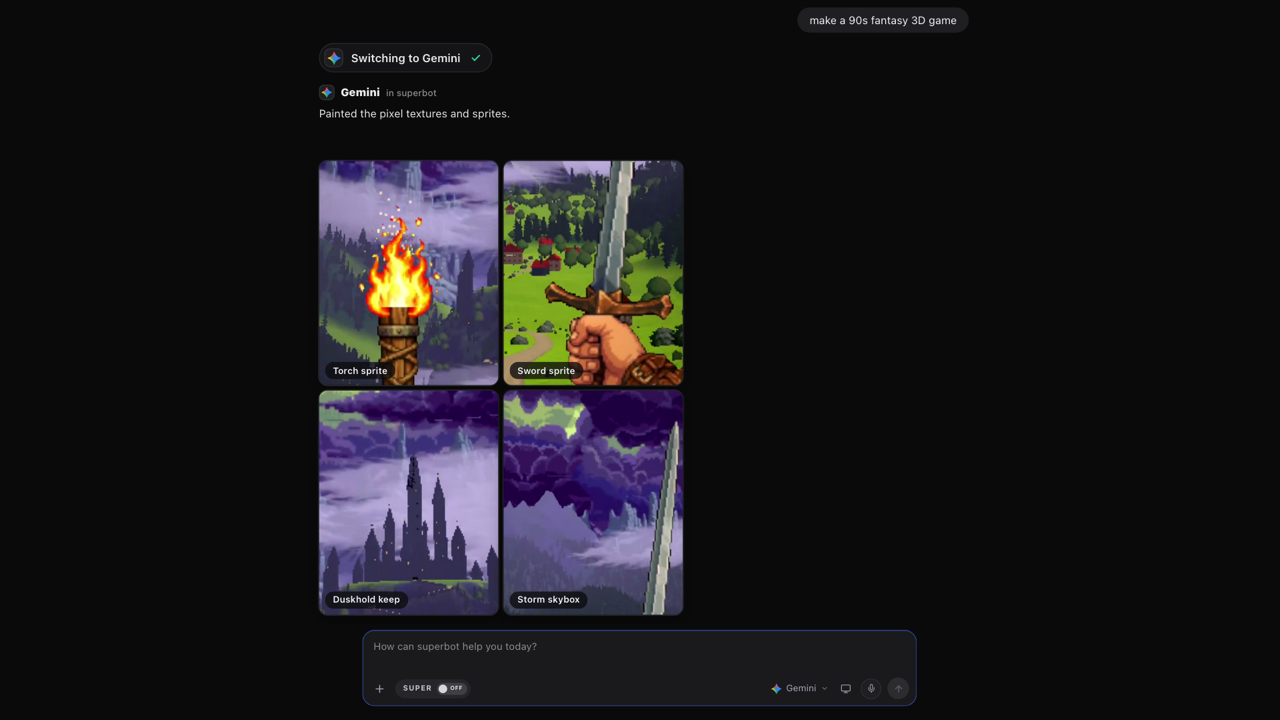
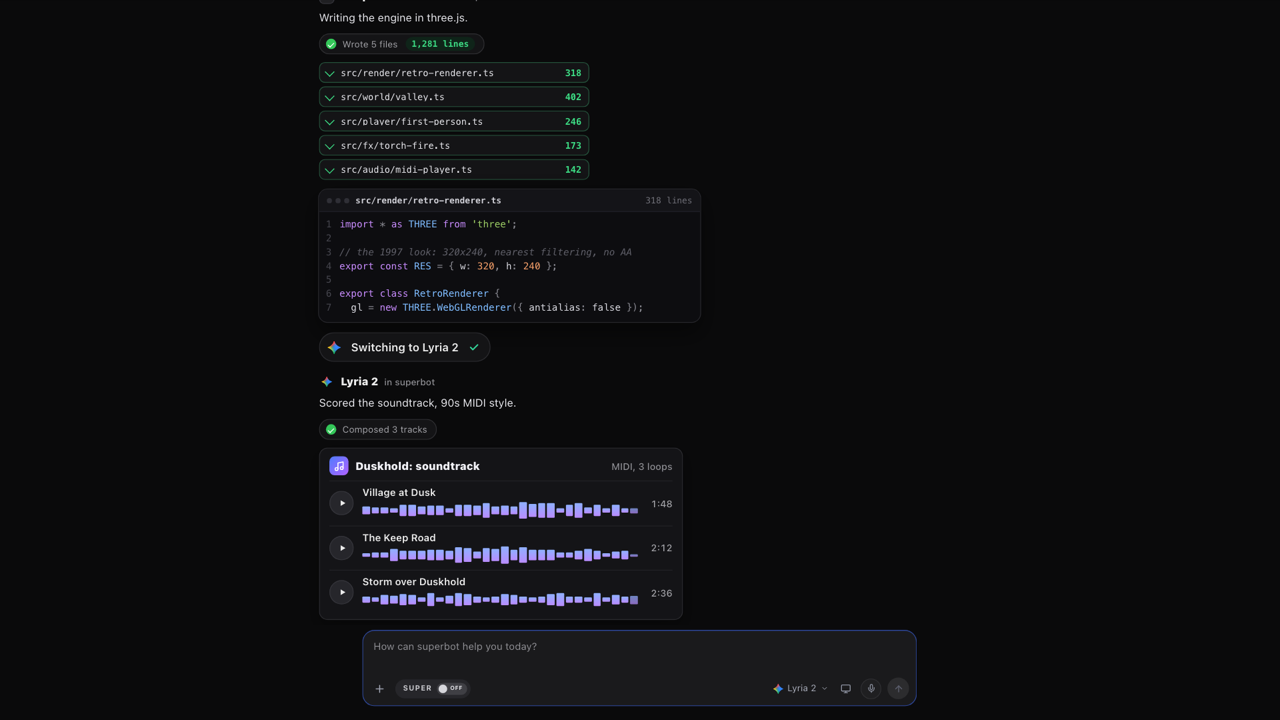
90s fantasy 3D game ad: distinct routing per variant (models, order, switch count, pacing)

Changed region(s): [[0.25, 0.0, 0.5312, 0.8556], [0.625, 0.0, 0.75, 0.0611], [0.5938, 0.9472, 0.625, 0.9778]]

diff --git a/animations/fantasy90s-every-model-superbot-042670d1/scenes/tabs-assets/chat.js b/animations/fantasy90s-every-model-superbot-042670d1/scenes/tabs-assets/chat.js
@@ -45,37 +45,43 @@ const CHIP = {
 
 // one request: the app that answers, its beat module, the chip that routes to it, and the beat's own options
 const step = (app, mod, opts = {}) => ({ app, mod, opts, chips: [[app, CHIP[app]]] });
-// only the first request is asked; the rest are superbot carrying the build forward on its own
-const variant = (steps) => steps.map((s, i) => (i === 0 ? { ...s, ask: ASK } : s));
+// only the first request is asked; the rest are superbot carrying the build forward on its own. pace sets where the
+// cuts land: hold is the pause after a beat before the next switch (one number, or one per step), chip is how long a
+// routing chip spins before it resolves
+const variant = (steps, pace = {}) => steps.map((s, i) => ({
+  ...s,
+  ...(i === 0 ? { ask: ASK } : {}),
+  hold: Array.isArray(pace.hold) ? pace.hold[i] || 0 : pace.hold || 0,
+  chipDur: pace.chip || 0.65,
+}));
 
-// the three published routings, one ad each (?v=1..3); every one builds the same 90s fantasy game, Duskhold, with
-// each part of the job sent to the model suited to it: design doc or lore, three.js engine and retro shaders,
-// pixel textures and sprites, the MIDI-style soundtrack, the repo, and the playable build
+// the three published routings, one ad each (?v=1..3). Every one builds the same 90s fantasy game, Duskhold, but
+// each routes differently: a different cast of models, a different order, a different number of switches and a
+// different rhythm (v1 four slow switches, v2 seven rapid ones, v3 six with uneven pauses)
 export const VARIANTS = {
   '1': variant([
-    step('deepseek', plan, { kind: 'gdd' }),
+    step('gemini', art),
     step('opus', code, { set: 'engine' }),
-    step('gemini', art),
     step('lyria', music),
-    step('github', git),
     step('superbot', play),
-  ]),
+  ], { hold: 0.7, chip: 0.8 }),
   '2': variant([
-    step('opus', plan, { kind: 'gdd' }),
-    step('gemini', art),
+    step('deepseek', plan, { kind: 'lore' }),
     step('codex', code, { set: 'retro' }),
     step('opus', code, { set: 'world' }),
-    step('lyria', music),
-    step('opus', play),
-  ]),
-  '3': variant([
     step('gemini', art),
-    step('deepseek', plan, { kind: 'lore' }),
+    step('opus', music),
+    step('github', git),
+    step('superbot', play),
+  ], { hold: 0, chip: 0.45 }),
+  '3': variant([
+    step('opus', plan, { kind: 'gdd' }),
+    step('deepseek', code, { set: 'engine' }),
     step('lyria', music),
-    step('codex', code, { set: 'engine' }),
+    step('gemini', art),
     step('github', git),
     step('opus', play),
-  ]),
+  ], { hold: [0.25, 0, 0.9, 0.1, 0.5], chip: 0.6 }),
 };
 export const VARIANT_KEY = (() => { const v = new URLSearchParams(location.search).get('v'); return VARIANTS[v] ? v : '1'; })();
 export const VARIANT = VARIANTS[VARIANT_KEY];
@@ -95,11 +101,11 @@ function timeBeats(asks) {
     }
     // each chip lands, moves the platform chip to its app (swap) and resolves (done); the next lands just after
     let at = k.sw;
-    k.chips = a.chips.map(([app, label]) => { const c = { app, label, sw: at, swap: at + 0.22, done: at + 0.65 }; at = c.done + 0.12; return c; });
+    k.chips = a.chips.map(([app, label]) => { const c = { app, label, sw: at, swap: at + 0.22, done: at + Math.max(0.3, a.chipDur) }; at = c.done + 0.12; return c; });
     k.done = k.chips[k.chips.length - 1].done;
     k.reply = k.done + 0.08;  // the app answers
     k.T = a.mod.times(k.reply);
-    s = k.T.end;
+    s = k.T.end + a.hold;     // the variant's pause before the next switch
     return { k };
   });
 }

diff --git a/animations/fantasy90s-every-model-superbot-042670d1/scenes/tabs.js b/animations/fantasy90s-every-model-superbot-042670d1/scenes/tabs.js
@@ -2,10 +2,10 @@
 // are hidden, ask.css), laid out at DW design px and scaled to the frame width. It opens on the empty state
 // ("Good evening. Where do we go?" over a centred composer) with the camera pushed in; the first send drops the
 // composer to the bottom, lifts the greeting away and eases the camera out while the five-request chat plays
-// (tabs-assets/chat.js, ?v=1..5 picks the routing). render(lt) is a pure function of local time. The scene keeps the id "tabs" so the hub's
+// (tabs-assets/chat.js, ?v=1..3 picks the routing). render(lt) is a pure function of local time. The scene keeps the id "tabs" so the hub's
 // generated stylesheets (scoped under #s-tabs) apply unchanged.
 import { hubMarkup } from './tabs-assets/hub-markup.js';
-import { mountChat, renderChat, BEATS, CHAT_T0, CHAT_END } from './tabs-assets/chat.js?v=9';
+import { mountChat, renderChat, BEATS, CHAT_T0, CHAT_END } from './tabs-assets/chat.js?v=10';
 import { lerp, seg, outCubic, inOutCubic } from '../lib.js';
 
 const asset = (f) => new URL('./tabs-assets/' + f, import.meta.url).href;

diff --git a/animations/fantasy90s-every-model-superbot-042670d1/timeline.js b/animations/fantasy90s-every-model-superbot-042670d1/timeline.js
@@ -189,7 +189,7 @@ await Promise.all(sceneIds.map(async (id) => {
   css.rel = 'stylesheet'; css.href = new URL(`./scenes/${id}.css?v=11`, import.meta.url).href;
   document.head.appendChild(css);
   try {
-    const m = (await import(`./scenes/${id}.js?v=13`)).default;
+    const m = (await import(`./scenes/${id}.js?v=14`)).default;
     if (!m || typeof m.render !== 'function') throw new Error(`scenes/${id}.js has no default { dur, mount, render } export`);
     MODS[id] = m;
   } catch (err) {

diff --git a/animations/fantasy90s-every-model-superbot-042670d1/index.html b/animations/fantasy90s-every-model-superbot-042670d1/index.html
@@ -38,6 +38,6 @@
 
 <script src="../../assets/sb-mark-live.js"></script>
 <script src="recorder.js"></script>
-<script type="module" src="timeline.js?v=13"></script>
+<script type="module" src="timeline.js?v=14"></script>
 </body>
 </html>
